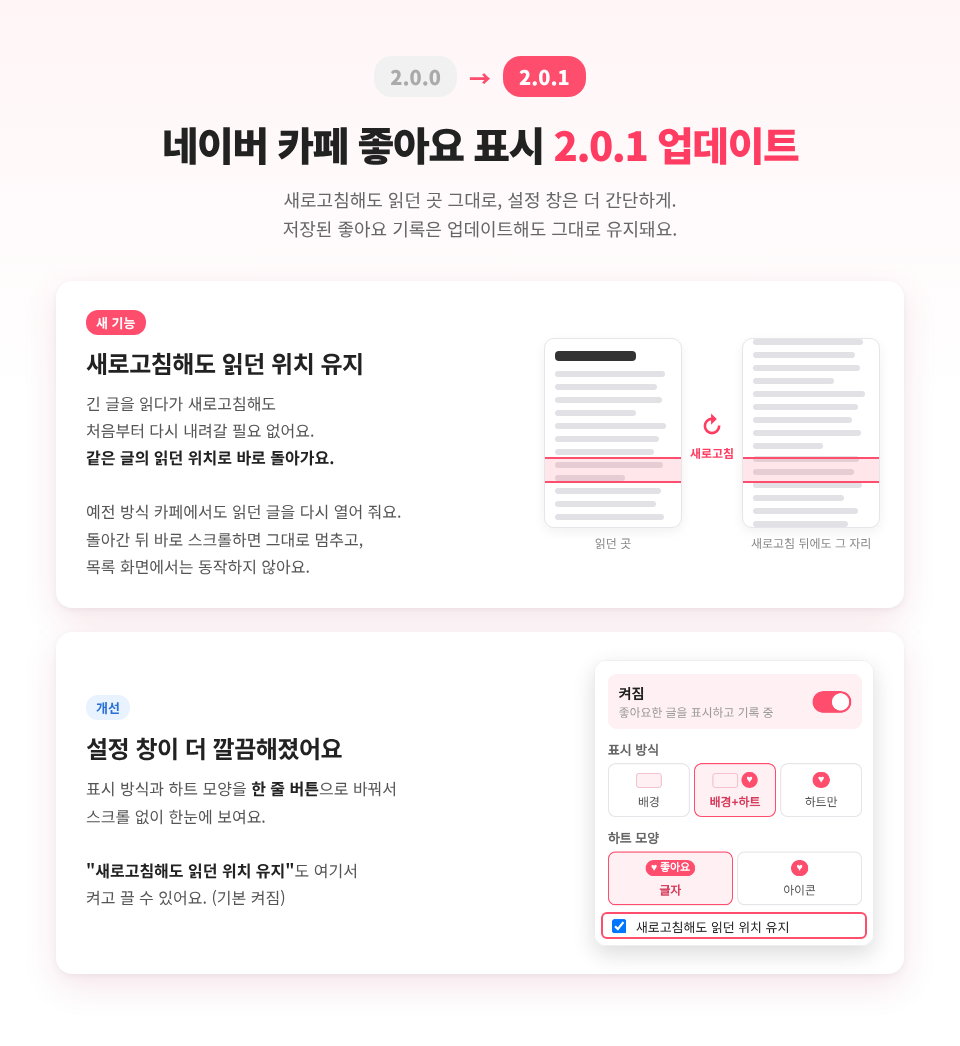
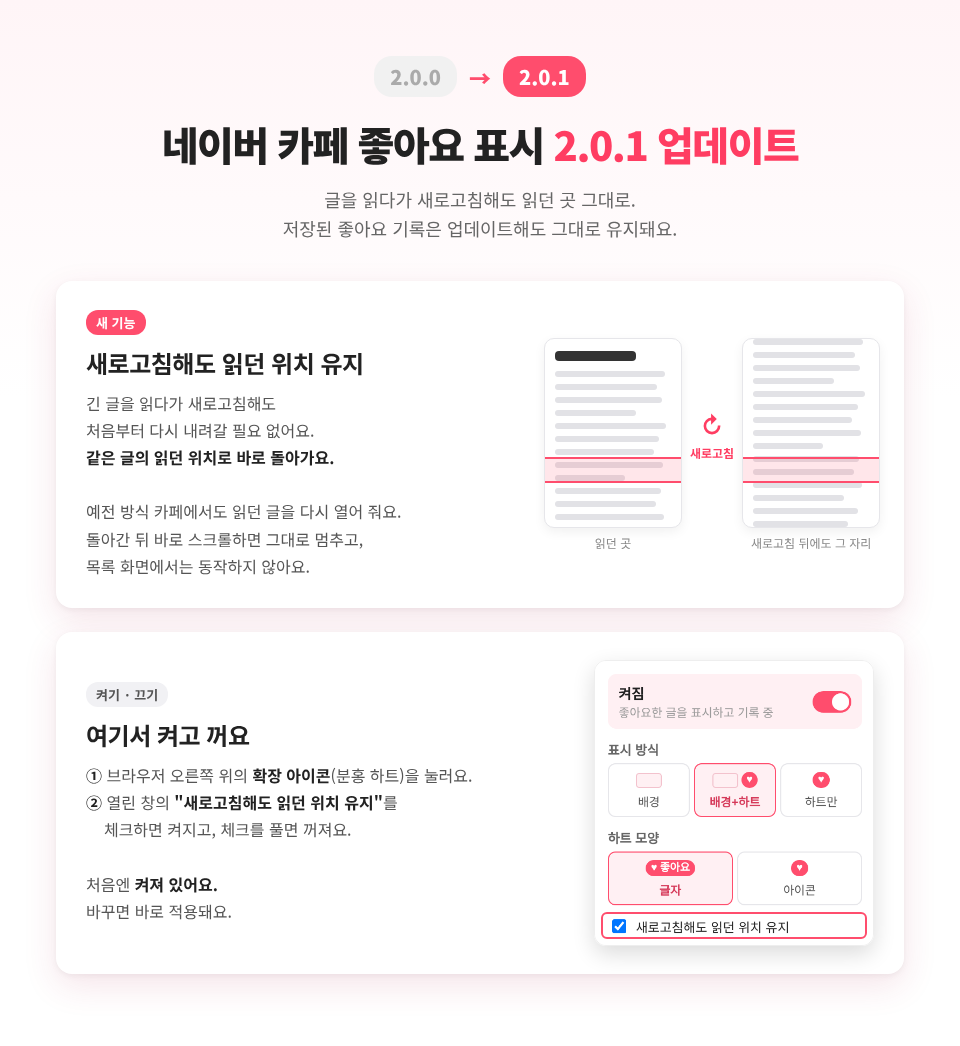
2.0.1 안내 이미지: 개선 항목 빼고 켜고 끄는 위치 설명
Claude-Session: https://claude.ai/code/session_018ih16usEF2kqeph62Xi418

Changed region(s): [[0.0938, 0.6424, 0.5, 0.7954], [0.0938, 0.826, 0.375, 0.8872], [0.2812, 0.1836, 0.6875, 0.2141]]

diff --git a/tools/update_201.html b/tools/update_201.html
@@ -15,6 +15,7 @@ body{margin:0;font-family:Pretendard,"Noto Sans CJK KR","Malgun Gothic",sans-ser
 .card .body{flex:1}
 .label{display:inline-block;font-size:13px;font-weight:700;border-radius:12px;padding:3px 10px;margin-bottom:10px}
 .label.new{background:#ff4d6d;color:#fff}
+.label.how{background:#f1f1f4;color:#555}
 .label.fix{background:#e8f3ff;color:#2a6fd6}
 .card h2{font-size:24px;margin:0 0 10px;letter-spacing:-.5px}
 .card p{font-size:16px;color:#555;margin:0;line-height:1.7}
@@ -57,7 +58,7 @@ body{margin:0;font-family:Pretendard,"Noto Sans CJK KR","Malgun Gothic",sans-ser
   <div class="top">
     <div class="ver"><span class="old">2.0.0</span><span class="arr">→</span><span class="new">2.0.1</span></div>
     <h1>네이버 카페 좋아요 표시 <em>2.0.1 업데이트</em></h1>
-    <p>새로고침해도 읽던 곳 그대로, 설정 창은 더 간단하게.<br>저장된 좋아요 기록은 업데이트해도 그대로 유지돼요.</p>
+    <p>글을 읽다가 새로고침해도 읽던 곳 그대로.<br>저장된 좋아요 기록은 업데이트해도 그대로 유지돼요.</p>
   </div>
 
   <div class="card">
@@ -81,9 +82,9 @@ body{margin:0;font-family:Pretendard,"Noto Sans CJK KR","Malgun Gothic",sans-ser
 
   <div class="card">
     <div class="body">
-      <span class="label fix">개선</span>
-      <h2>설정 창이 더 깔끔해졌어요</h2>
-      <p>표시 방식과 하트 모양을 <b>한 줄 버튼</b>으로 바꿔서<br>스크롤 없이 한눈에 보여요.<br><br><b>"새로고침해도 읽던 위치 유지"</b>도 여기서<br>켜고 끌 수 있어요. (기본 켜짐)</p>
+      <span class="label how">켜기 · 끄기</span>
+      <h2>여기서 켜고 꺼요</h2>
+      <p><b>①</b> 브라우저 오른쪽 위의 <b>확장 아이콘</b>(분홍 하트)을 눌러요.<br><b>②</b> 열린 창의 <b>"새로고침해도 읽던 위치 유지"</b>를<br>&nbsp;&nbsp;&nbsp;&nbsp;체크하면 켜지고, 체크를 풀면 꺼져요.<br><br>처음엔 <b>켜져 있어요.</b><br>바꾸면 바로 적용돼요.</p>
     </div>
     <div class="pop"><img src="popup_board.png"><div class="ring"></div></div>
   </div>
